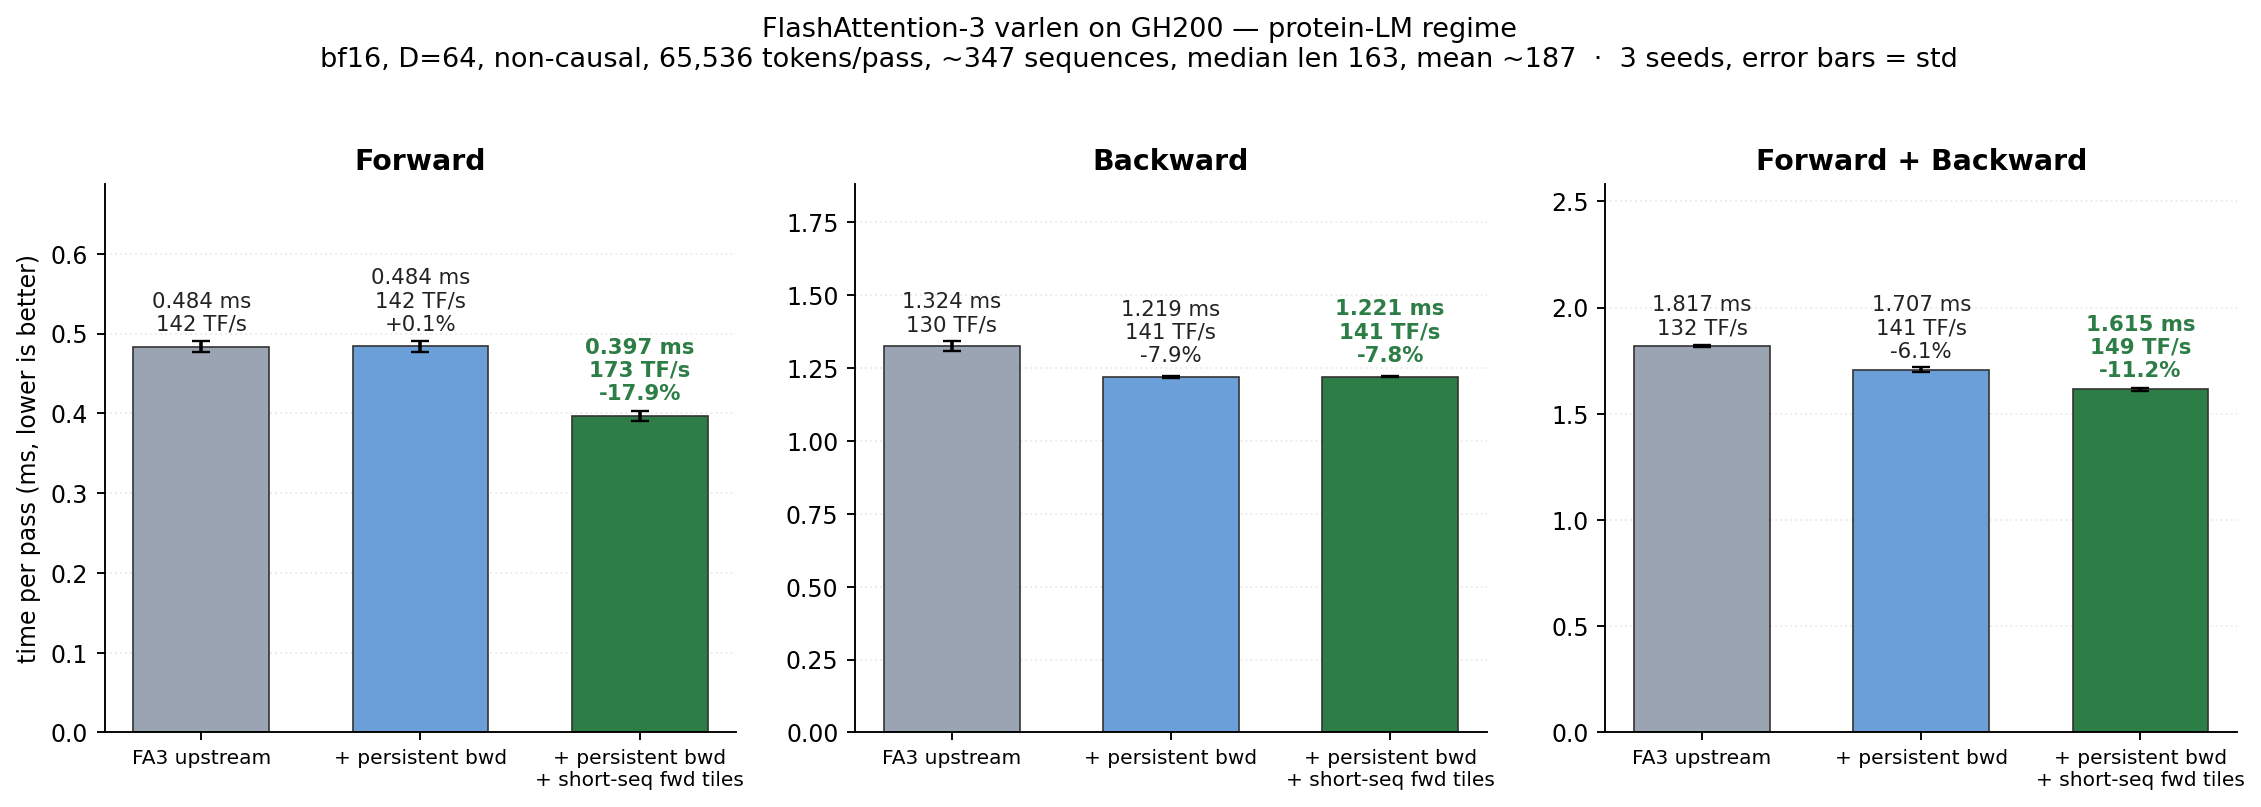
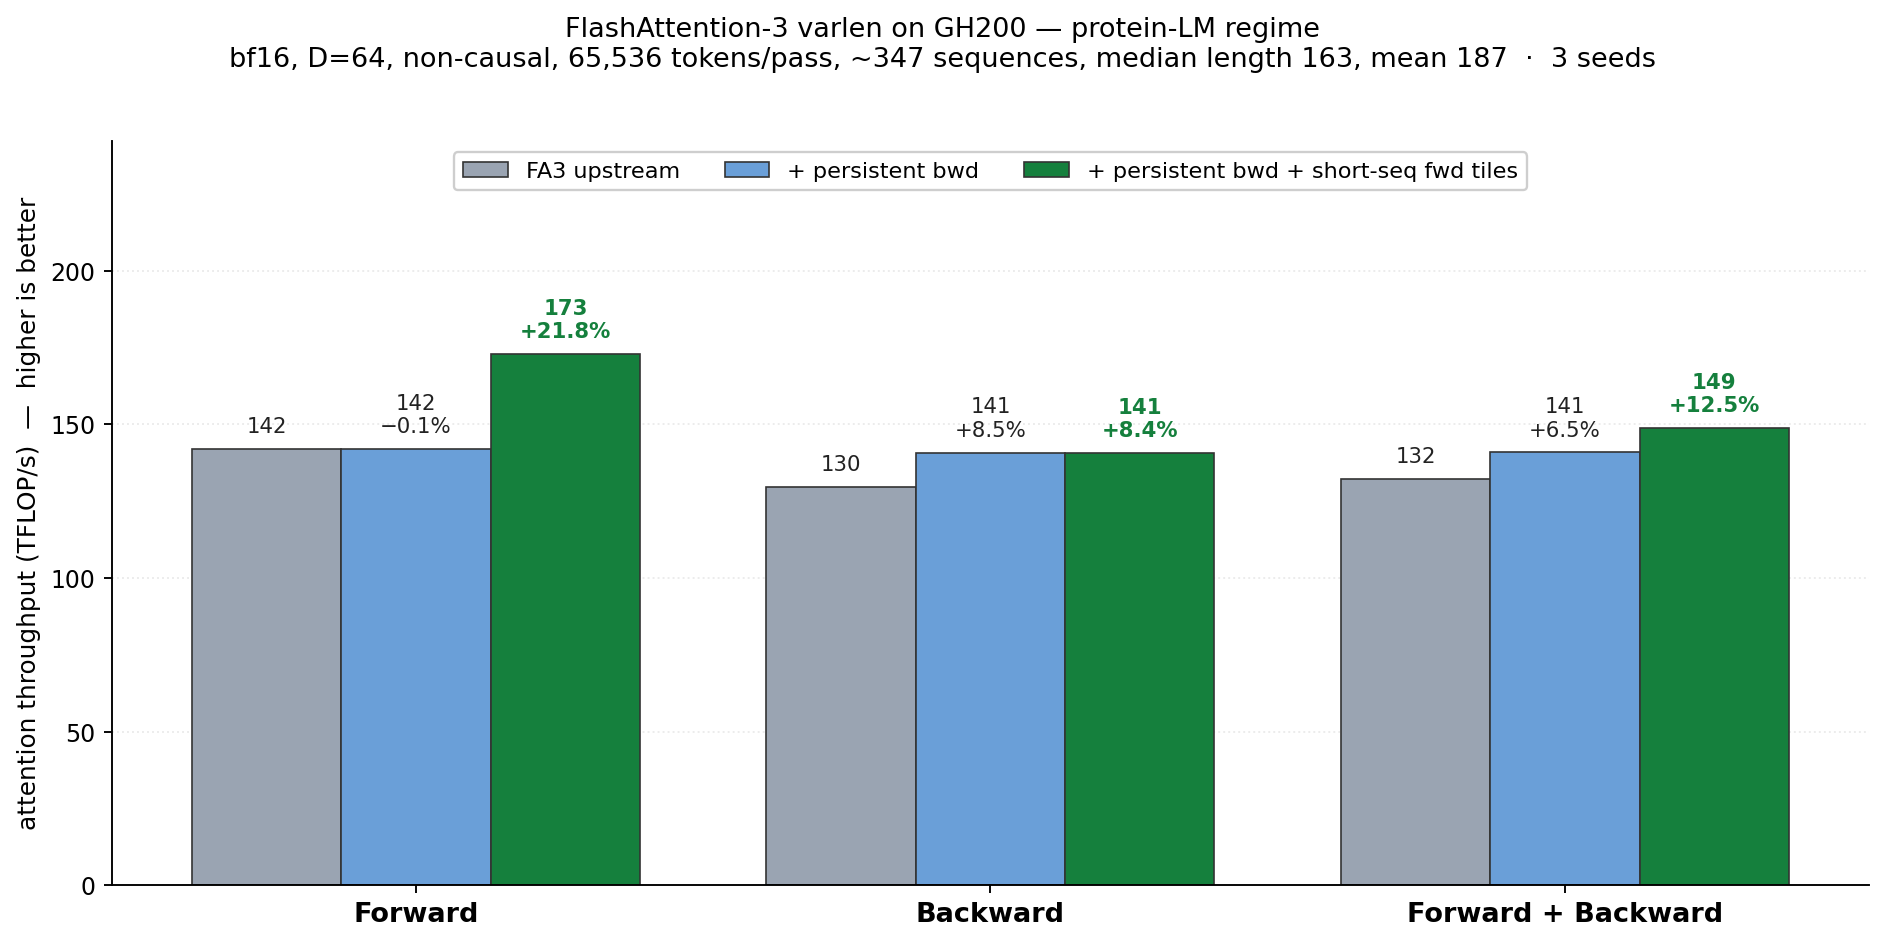
Charts and tables: one convention throughout — TFLOP/s, higher is better
The headline chart was three panels each re-plotting the same three-bar
ablation, which is a grouped bar chart split for no reason. It is now a single
grouped bar chart: stage on the x-axis, variants as bars, one shared throughput
axis.

All three charts now plot absolute TFLOP/s with "higher is better" on the axis,
and label speedups as positive percentages where the fork is faster. The two
sweep charts plot upstream and fork as separate curves with the gap shaded
green where the fork wins and red where it loses, instead of a delta line.

The text carried the opposite convention -- tables quoted time reduction
(-17.9%) while charts said "positive = faster", which are the same fact with
different numbers. Every table is now throughput: forward +21.8% (not -17.9%),
backward +8.4%, fwd+bwd +12.5%, and the variance sweep reads +47% down to +10%
for the forward and -1% up to +37% for the backward. Kernel-duration tables,
which are legitimately in ms, now quote a speedup factor rather than a negative
percentage. Superseded ms-based dispersion tables are dropped in favour of the
variance sweep. Minus signs normalised.

No measurements changed; only their presentation.

Claude-Session: https://claude.ai/code/session_01BVCGunY872Xx2ayjdWG6gp

diff --git a/docs/protein_varlen_gh200.md b/docs/protein_varlen_gh200.md
@@ -12,9 +12,9 @@ Two changes to the FlashAttention-3 varlen path, both scoped to non-causal `head
 
 | | upstream | this fork | speedup |
 |---|---|---|---|
-| forward | 0.484 ms (142 TF/s) | **0.397 ms (173 TF/s)** | **-17.9%** |
-| backward | 1.324 ms (130 TF/s) | **1.221 ms (141 TF/s)** | **-7.8%** |
-| **fwd + bwd** | **1.817 ms (132 TF/s)** | **1.615 ms (149 TF/s)** | **-11.2%** |
+| forward | 142 TFLOP/s | **173 TFLOP/s** | **+21.8%** |
+| backward | 130 TFLOP/s | **141 TFLOP/s** | **+8.4%** |
+| **fwd + bwd** | **132 TFLOP/s** | **149 TFLOP/s** | **+12.5%** |
 
 ![protein varlen benchmark](assets/protein_varlen_gh200.png)
 
@@ -40,11 +40,13 @@ per FLOP.
 
 Ablated, so the two changes can be judged separately:
 
-| variant | fwd | bwd | fwd+bwd |
+| variant | forward | backward | fwd+bwd |
 |---|---|---|---|
-| upstream | 0.484 ms | 1.324 ms | 1.817 ms |
-| + persistent bwd | 0.484 ms (+0.1%) | 1.219 ms (**-7.9%**) | 1.707 ms (-6.1%) |
-| + persistent bwd + short-seq fwd tiles | 0.397 ms (**-17.9%**) | 1.221 ms (-7.8%) | 1.615 ms (**-11.2%**) |
+| upstream | 142 | 130 | 132 |
+| + persistent bwd | 142 (−0.1%) | 141 (**+8.5%**) | 141 (+6.5%) |
+| + persistent bwd + short-seq fwd tiles | 173 (**+21.8%**) | 141 (+8.4%) | 149 (**+12.5%**) |
+
+TFLOP/s; higher is better.
 
 The two are independent: the forward flag does not touch the backward, and vice versa.
 
@@ -84,15 +86,15 @@ config has the *most* conflicts (53.4%) and `tile_n=64` the fewest (18%) while b
 This is a *tile-quantization* win and it inverts at long sequence length. D=64 non-causal,
 fixed-length varlen, 65,536 tokens per pass:
 
-| seqlen | upstream | short-seq tiles | delta |
+| seqlen | upstream | short-seq tiles | speedup |
 |---|---|---|---|
 | 128 | 97.9 TF/s | 118.9 | **+21.4%** |
 | 256 | 129.5 | 158.4 | **+22.3%** |
 | 512 | 258.0 | 268.0 | +3.9% |
 | 1024 | 316.3 | 325.0 | +2.8% |
-| 2048 | 379.7 | 375.4 | -1.1% |
-| 4096 | 430.5 | 402.9 | -6.4% |
-| 8192 | 463.4 | 418.7 | -9.6% |
+| 2048 | 379.7 | 375.4 | −1.1% |
+| 4096 | 430.5 | 402.9 | −6.4% |
+| 8192 | 463.4 | 418.7 | −9.6% |
 | 16384 | 445.2 | 399.1 | **-10.4%** |
 
 Break-even is near seqlen 1500. Upstream's own comment two lines below the tile table says as
@@ -326,7 +328,7 @@ End-to-end, 30 steps of single-GPU pretraining: **loss identical to 4 dp at ever
 |---|---|---|
 | grid | 37,744 CTAs | **132** |
 | waves per SM | 285.94 | **1** |
-| duration | 1.18 ms | **1.00 ms** |
+| duration | 1.18 ms | **1.00 ms (1.18× faster)** |
 | **instructions executed** | 231.4 M | **191.5 M (−17.2%)** |
 | cycles | 1.540 M | 1.249 M (−18.9%) |
 | compute (SM) throughput | 32.8% | 40.4% |
@@ -346,29 +348,18 @@ Per fwd+bwd iteration, all FA kernels, median of alternating repeats:
 
 | kernel | ctrl | persistent |
 |---|---|---|
-| main `FlashAttnBwdSm90` | 0.981 ms | **0.859 ms (−12.5%)** |
+| main `FlashAttnBwdSm90` | 0.981 ms | **0.859 ms (1.14× faster)** |
 | forward recompute | 0.403 | 0.415 |
 | `BwdPreprocess` | 0.186 | 0.186 |
 | `BwdPostprocessConvertdQ` | 0.137 | 0.137 |
-| **total** | **1.712 ms** | **1.603 ms (−6.4%)** |
+| **total** | **1.712 ms** | **1.603 ms (1.07× faster)** |
 
-#### The change is a *dispersion* win, not a short-sequence win
+##### The change is a *dispersion* win, not a short-sequence win
 
-Sweeping the length distribution at constant token count (65,536) and constant `kBlockN = 128`.
-"fill" is the fraction of launched CTAs that are non-empty; time is total FA kernel time per
-iteration:
-
-| distribution | max | fill | ctrl | persistent | Δ |
-|---|---|---|---|---|---|
-| uniform 194 | 194 | 100.0% | 1.528 ms | 1.532 ms | **−0.2%** |
-| lognormal σ=0.25 | 378 | 64.6% | 1.511 ms | 1.527 ms | **−1.1%** |
-| lognormal σ=0.5 | 815 | 28.7% | 1.712 ms | 1.622 ms | **+5.2%** |
-| lognormal σ=0.9 | 2779 | 11.5% | 2.588 ms | 2.262 ms | **+12.6%** |
-| lognormal σ=1.3 | 2376 | 18.1% | 3.132 ms | 2.897 ms | **+7.5%** |
-
-The benefit tracks the empty-CTA fraction almost monotonically. **At high fill the change is a
-small regression** — the `KVEmpty` handshake serialises the producer against the epilogue of the
-previous tile, and when there are no empty CTAs to eliminate that serialisation is pure cost.
+Superseded by the variance sweep at the top of this document, which pins the mean length and is
+measured in throughput. Summary: the backward's speedup rises monotonically with the spread of
+the length distribution, from −1% at zero variance to +37% at CV 1.83, tracking the empty-CTA
+fraction.
 
 #### End-to-end
 
@@ -382,7 +373,7 @@ pers  {339.02, 338.52} ms      →  −0.38%
 The persistent build is faster in both repeats, but the difference (1.28 ms) is comparable to
 the spread within the control arm alone (1.12 ms). **Read this as "no regression, plausibly a
 small win", not as a measured speedup.** Attention is a modest fraction of a step whose GEMMs
-run in fp8; the kernel-level −12.5% is the result that is actually resolved.
+run in fp8; the kernel-level speedup is the result that is actually resolved.
 
 ---
 
@@ -402,24 +393,28 @@ backward timed separately.
 | coeff. of variation | 0.02 | 0.15 | 0.30 | 0.47 | 0.66 | 0.96 | 1.35 | 1.83 |
 | max length | 200 | 314 | 482 | 724 | 1062 | 1711 | 2648 | 3937 |
 | tile fill | 100% | 68% | 51% | 33% | 22% | 14% | 9% | 6% |
-| **forward** (flag on) | **+32.2%** | +26.4% | +25.6% | +15.7% | +16.0% | +14.6% | +12.0% | **+8.6%** |
-| **backward** (default) | **−0.7%** | +0.6% | +1.7% | +4.9% | +11.1% | +17.4% | +21.7% | **+27.3%** |
+| forward, upstream | 83 | 108 | 119 | 136 | 149 | 177 | 212 | 258 |
+| forward, fork | 122 | 146 | 160 | 161 | 177 | 207 | 241 | 283 |
+| **forward speedup** | **+47%** | +36% | +34% | +19% | +19% | +17% | +14% | **+10%** |
+| backward, upstream | 125 | 116 | 118 | 122 | 129 | 144 | 164 | 184 |
+| backward, fork | 124 | 116 | 120 | 129 | 145 | 174 | 209 | 253 |
+| **backward speedup** | **−1%** | +1% | +2% | +5% | +12% | +21% | +28% | **+37%** |
+
+All figures TFLOP/s; higher is better.
 
 The two curves are near mirror images, and that is the whole story of this fork:
 
-* **Forward — a short-sequence effect.** Best at zero variance (+32.2%), monotonically decaying
-  to +8.6% as the tail grows. The narrow 192x80 KV tile wins because a 200-token sequence
+* **Forward — a short-sequence effect.** Best at zero variance (+47%), decaying to +10% as the tail grows. The narrow 192x80 KV tile wins because a 200-token sequence
   against a 192-wide tile wastes most of the tile; as sequences lengthen, upstream's wide tile
   amortises better and the advantage erodes. This is tile quantisation.
-* **Backward — a dispersion effect.** Break-even at zero variance (-0.7%), climbing
-  monotonically to +27.3%. Nothing here depends on sequences being short: it depends on them
+* **Backward — a dispersion effect.** Break-even at zero variance (−1%), climbing monotonically to +37%. Nothing here depends on sequences being short: it depends on them
   being *unequal*, because that is what fills the rectangular grid with empty CTAs. This is
   scheduling.
 
 They are independent and compose. A protein corpus sits near sigma 0.55 (CV ~0.6, ~22% fill),
-where the forward still returns ~+16% and the backward ~+11%.
+where the forward still returns ~+19% and the backward ~+12%.
 
-Note the backward's -0.7% at sigma=0 here is milder than the -7.2% in the uniform-length table
+Note the backward's −0.7% at sigma=0 here is milder than the −7.2% in the uniform-length table
 below, because this sweep pins the mean at 200 (two KV blocks per sequence) while that one also
 tests seqlen 128 (a single KV block), where the per-tile handshake overhead has the least work
 to hide behind.
@@ -436,9 +431,14 @@ Both changes are operating-point trades. Measured against upstream on **uniform-
 
 | uniform seqlen | 128 | 256 | 512 | 1024 | 2048 | 4096 | 8192 | 16384 |
 |---|---|---|---|---|---|---|---|---|
-| **backward**, persistent only | **-7.2%** | -2.9% | -1.9% | -2.0% | **-7.1%** | -5.0% | -4.0% | -4.3% |
-| **forward**, flag on | +18.3% | +18.2% | +5.7% | +6.0% | -6.3% | -6.6% | -8.4% | **-9.9%** |
-| **fwd+bwd**, both on | +1.9% | +6.2% | -2.2% | -2.9% | -3.1% | -5.2% | -5.1% | **-8.2%** |
+| forward, upstream | 100 | 131 | 256 | 288 | 382 | 422 | 450 | 447 |
+| forward, fork | 122 | 161 | 272 | 306 | 359 | 396 | 415 | 407 |
+| **forward speedup** | **+22.3%** | +22.2% | +6.0% | +6.4% | −5.9% | −6.2% | −7.8% | **−9.0%** |
+| backward, upstream | 112 | 190 | 281 | 338 | 407 | 441 | 450 | 464 |
+| backward, fork | 104 | 185 | 276 | 332 | 380 | 420 | 433 | 445 |
+| **backward speedup** | **−6.7%** | −2.8% | −1.8% | −1.9% | −6.6% | −4.7% | −3.9% | −4.2% |
+
+All figures TFLOP/s; higher is better.
 
 Absolute forward throughput for the same sweep (TFLOP/s):
 
@@ -449,26 +449,11 @@ Absolute forward throughput for the same sweep (TFLOP/s):
 
 ### The backward's regression is about tile *fill*, not sequence length
 
-This is the part that is easy to get wrong. The persistent backward is **not** a
-"short sequence" optimisation — it is an "empty CTA" optimisation, and uniform-length batches
-have no empty CTAs at any length. Holding total tokens fixed and varying only the *dispersion*
-of the length distribution (total FA kernel time per iteration):
-
-| distribution | max len | tile fill | upstream | persistent | delta |
-|---|---|---|---|---|---|
-| uniform 194 | 194 | 100.0% | 1.528 ms | 1.532 ms | **-0.2%** |
-| lognormal s=0.25 | 378 | 64.6% | 1.511 ms | 1.527 ms | **-1.1%** |
-| lognormal s=0.5 (protein) | 815 | 28.7% | 1.712 ms | 1.622 ms | **+5.2%** |
-| lognormal s=0.9 | 2779 | 11.5% | 2.588 ms | 2.262 ms | **+12.6%** |
-| lognormal s=1.3 | 2376 | 18.1% | 3.132 ms | 2.897 ms | **+7.5%** |
-
-The benefit tracks the empty-CTA fraction almost monotonically. Below roughly 50% fill it wins;
-above that the `KVEmpty` handshake — which serialises the producer against the previous work
-tile's epilogue, and which the single-tile scheduler does not need — is pure overhead.
-
-The isolated uniform-length numbers above (-7.2% at seqlen 128) are a larger regression than the
-dispersion sweep's -0.2%, because the dispersion sweep measures *total* FA kernel time
-(forward + backward + preprocess + postprocess) while the table above isolates the backward.
+This is the part that is easy to get wrong. The persistent backward is **not** a "short
+sequence" optimisation — it is an "empty CTA" optimisation, and uniform-length batches have no
+empty CTAs at any length. The variance sweep at the top of this document isolates exactly this:
+holding the mean length fixed at 200 and varying only the spread moves the backward from −1% to
++37%, monotonically with tile fill.
 
 **Practical guidance:** if your dataloader length-buckets, sorts by length, or pads to a fixed
 length, tile fill will be high and you should use upstream. This fork targets packed varlen with

diff --git a/README.md b/README.md
@@ -23,12 +23,13 @@ Two changes, both scoped to non-causal varlen with `headdim <= 64`:
 
 | | upstream | this fork | speedup |
 |---|---|---|---|
-| forward | 0.484 ms (142 TF/s) | **0.397 ms (173 TF/s)** | **−17.9%** |
-| backward | 1.324 ms (130 TF/s) | **1.221 ms (141 TF/s)** | **−7.8%** |
-| **fwd + bwd** | **1.817 ms (132 TF/s)** | **1.615 ms (149 TF/s)** | **−11.2%** |
+| forward | 142 TFLOP/s | **173 TFLOP/s** | **+21.8%** |
+| backward | 130 TFLOP/s | **141 TFLOP/s** | **+8.4%** |
+| **fwd + bwd** | **132 TFLOP/s** | **149 TFLOP/s** | **+12.5%** |
 
-GH200 (680 W cap), bf16, D=64, non-causal, 65,536 tokens/pass, mean 3 seeds. Gradients match
-upstream exactly and 30 steps of pretraining give bit-identical eval loss.
+GH200 (680 W cap), bf16, D=64, non-causal, 65,536 tokens/pass, mean of 3 seeds. Throughput,
+so higher is better. Gradients match upstream exactly and 80 steps of pretraining give an
+identical loss curve.
 
 ### The two changes pull in opposite directions
 
@@ -42,10 +43,16 @@ Holding the token budget and the **arithmetic mean length fixed at 200** and var
 | coeff. of variation | 0.02 | 0.15 | 0.30 | 0.47 | 0.66 | 0.96 | 1.35 | 1.83 |
 | max length | 200 | 314 | 482 | 724 | 1062 | 1711 | 2648 | 3937 |
 | tile fill | 100% | 68% | 51% | 33% | 22% | 14% | 9% | 6% |
-| **forward** (flag on) | **+32.2%** | +26.4% | +25.6% | +15.7% | +16.0% | +14.6% | +12.0% | **+8.6%** |
-| **backward** (default) | **−0.7%** | +0.6% | +1.7% | +4.9% | +11.1% | +17.4% | +21.7% | **+27.3%** |
+| forward, upstream | 83 | 108 | 119 | 136 | 149 | 177 | 212 | 258 |
+| forward, fork | 122 | 146 | 160 | 161 | 177 | 207 | 241 | 283 |
+| **forward speedup** | **+47%** | +36% | +34% | +19% | +19% | +17% | +14% | **+10%** |
+| backward, upstream | 125 | 116 | 118 | 122 | 129 | 144 | 164 | 184 |
+| backward, fork | 124 | 116 | 120 | 129 | 145 | 174 | 209 | 253 |
+| **backward speedup** | **−1%** | +1% | +2% | +5% | +12% | +21% | +28% | **+37%** |
 
-* The **forward** win is about sequences being *short*. It is largest at zero variance (+32%)
+All figures TFLOP/s; higher is better.
+
+* The **forward** win is about sequences being *short*. It is largest at zero variance (+47%)
   and decays as the tail lengthens, because long sequences prefer upstream's wide KV tile.
 * The **backward** win is about the distribution being *ragged*. It is break-even at zero
   variance and grows monotonically with it, because dispersion is what fills the rectangular
@@ -63,21 +70,26 @@ upstream** — at every length tested.
 
 ![uniform length regression](docs/assets/uniform_len_regression.png)
 
-Uniform-length varlen, 65,536 tokens/pass, D=64 non-causal, % vs upstream (negative = slower):
+Uniform-length varlen, 65,536 tokens/pass, D=64 non-causal:
 
 | uniform seqlen | 128 | 256 | 512 | 1024 | 2048 | 4096 | 8192 | 16384 |
 |---|---|---|---|---|---|---|---|---|
-| backward (default) | **−7.2** | −2.9 | −1.9 | −2.0 | **−7.1** | −5.0 | −4.0 | −4.3 |
-| forward (flag on) | +18.3 | +18.2 | +5.7 | +6.0 | −6.3 | −6.6 | −8.4 | **−9.9** |
-| fwd+bwd (flag on) | +1.9 | +6.2 | −2.2 | −2.9 | −3.1 | −5.2 | −5.1 | **−8.2** |
+| forward, upstream | 100 | 131 | 256 | 288 | 382 | 422 | 450 | 447 |
+| forward, fork | 122 | 161 | 272 | 306 | 359 | 396 | 415 | 407 |
+| **forward speedup** | **+22.3%** | +22.2% | +6.0% | +6.4% | −5.9% | −6.2% | −7.8% | **−9.0%** |
+| backward, upstream | 112 | 190 | 281 | 338 | 407 | 441 | 450 | 464 |
+| backward, fork | 104 | 185 | 276 | 332 | 380 | 420 | 433 | 445 |
+| **backward speedup** | **−6.7%** | −2.8% | −1.8% | −1.9% | −6.6% | −4.7% | −3.9% | −4.2% |
+
+All figures TFLOP/s; higher is better.
 
 Two separate effects:
 
 * **The backward regresses whenever tile fill is high.** Uniform lengths mean the rectangular
   grid has *no* empty CTAs, so there is nothing to eliminate and the change only pays for the
-  extra producer/epilogue handshake it needs. It wins only when lengths are *dispersed* — +7.9%
-  on a protein batch (28.7% fill), +12.6% at 11.5% fill, but −1.1% at 64.6% fill and worse at
-  100%. It is on by default here because this is a protein-LM fork; **if your batches are
+  extra producer/epilogue handshake it needs. It wins only when lengths are *dispersed* — +8.5%
+  on a protein batch, and up to +37% at 6% fill, but it is break-even to slightly negative once
+  fill approaches 100%. It is on by default here because this is a protein-LM fork; **if your batches are
   length-bucketed or padded to a common length, use upstream.**
 * **The forward regresses past ~1.5k tokens**, which is tile quantization, and is why it is
   behind a flag.
